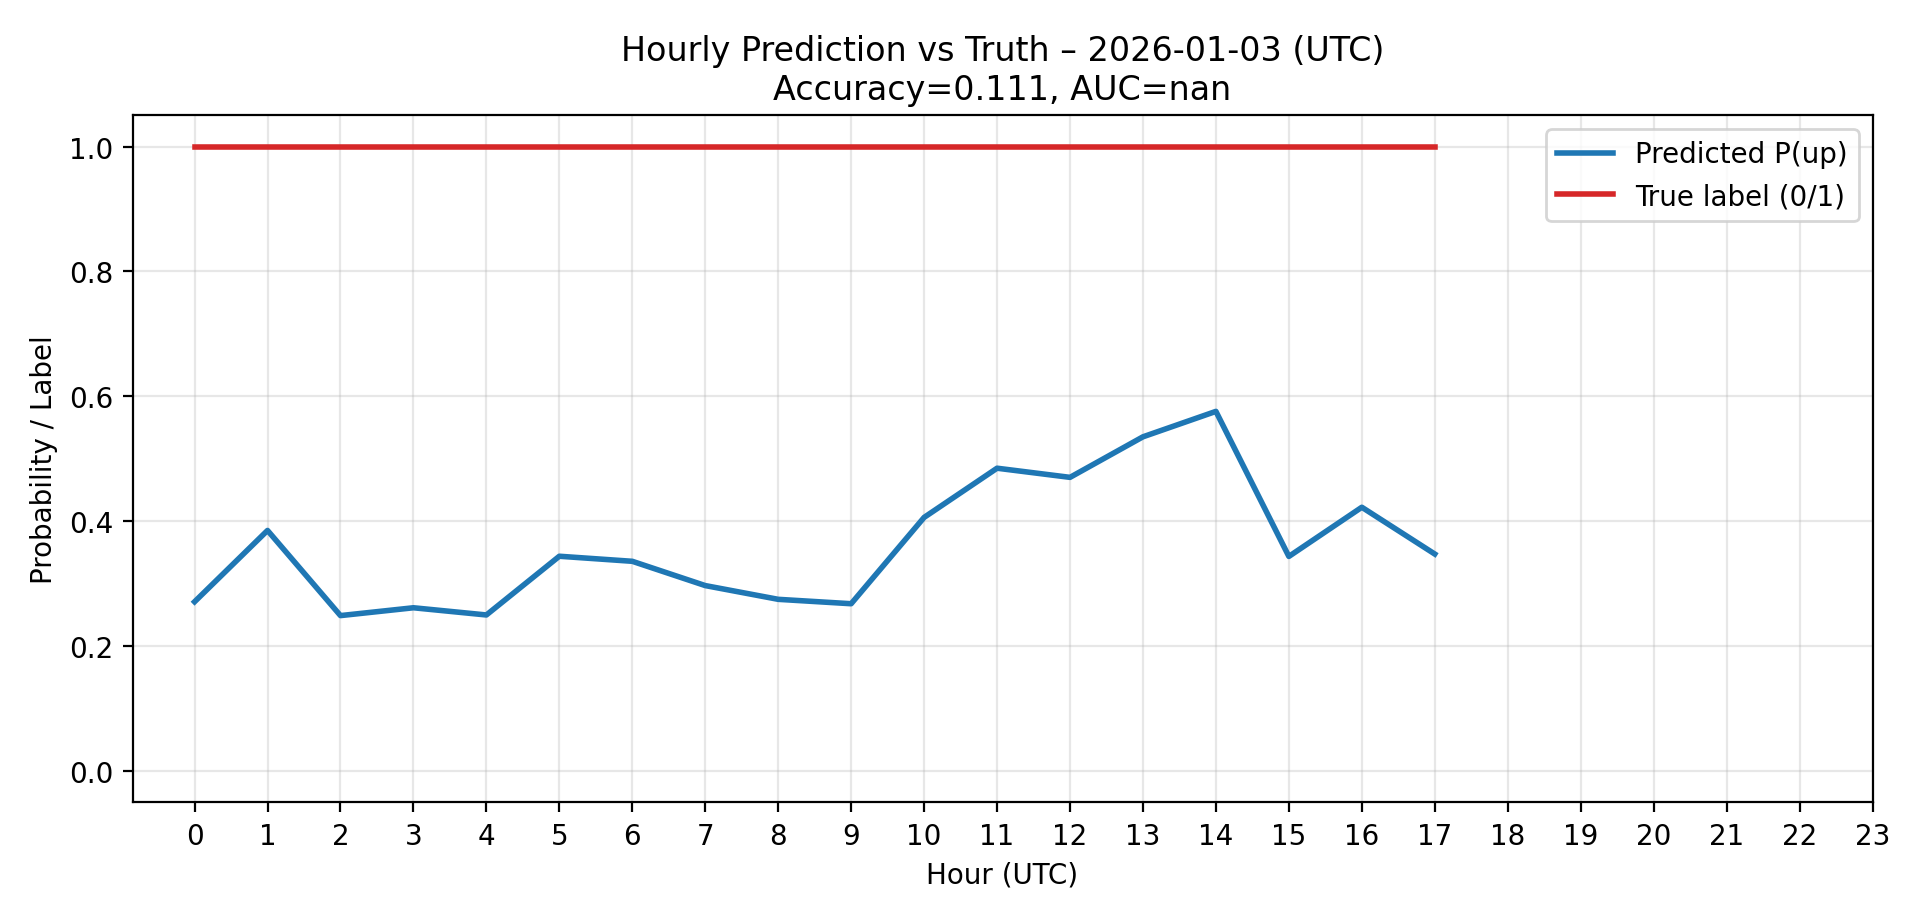
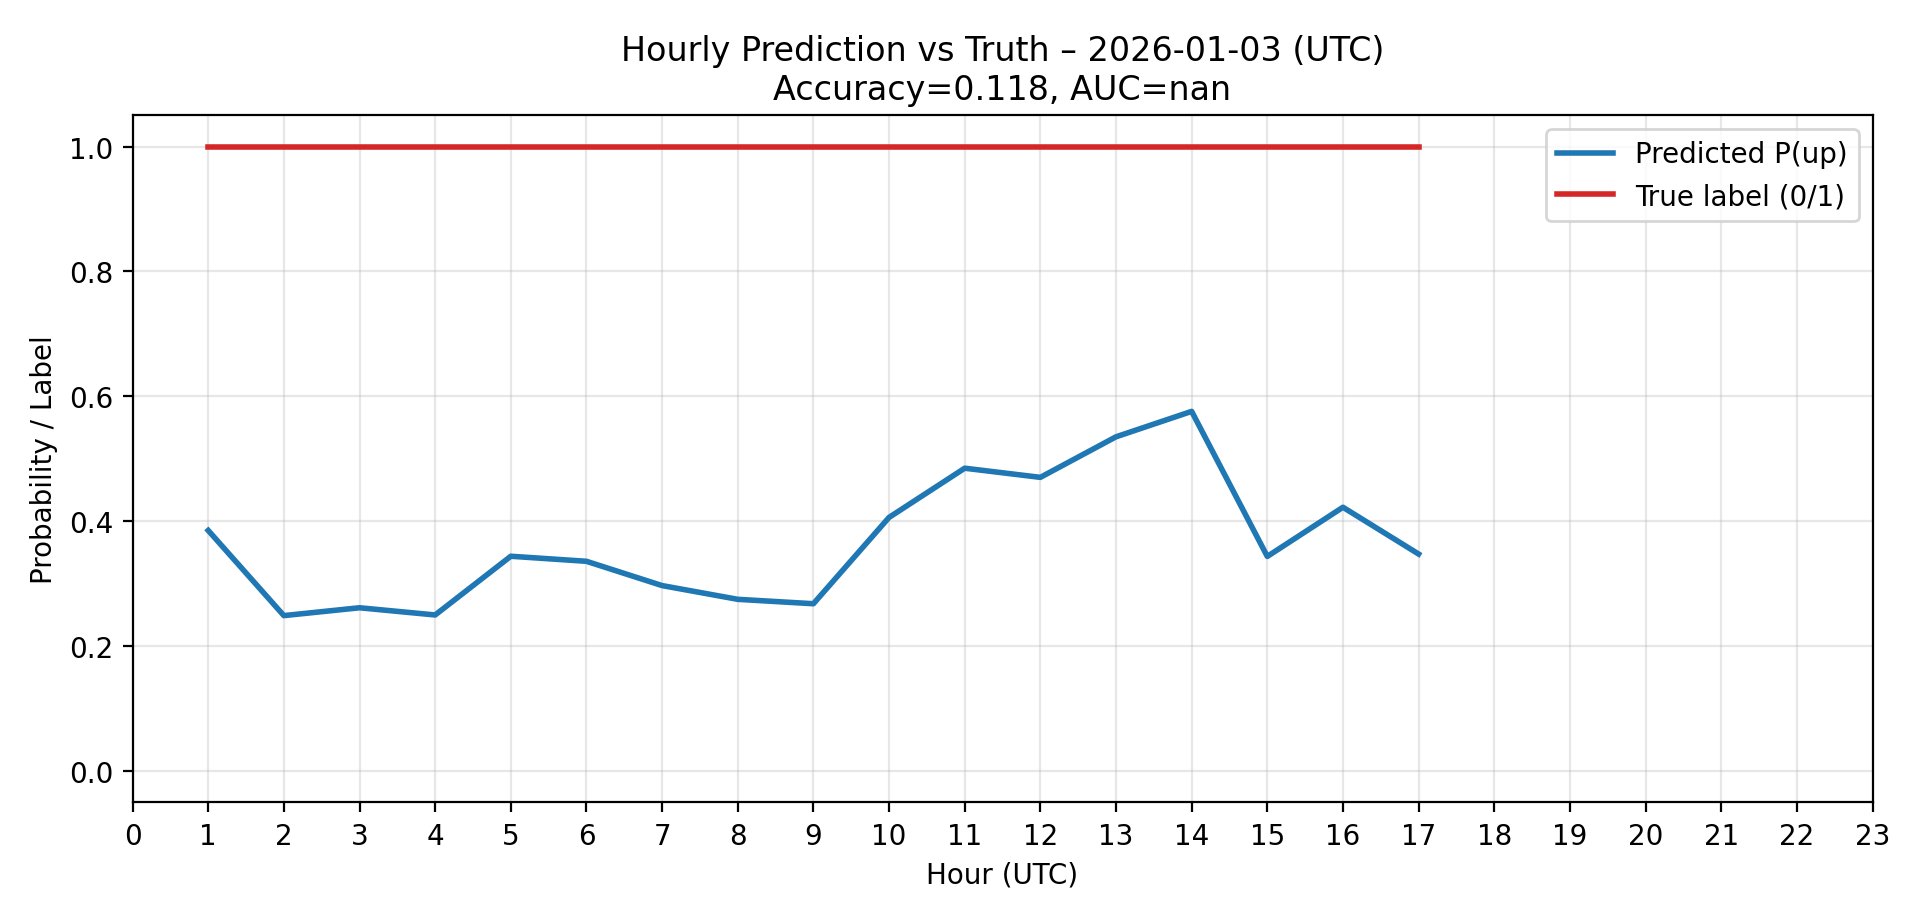
表格

diff --git a/pyfiles/crypto_inference.py b/pyfiles/crypto_inference.py
@@ -188,16 +188,10 @@ def save_inference_images(
     auc: float,
     eval_date_str: str,
 ):
-    """
-    Save inference visualization images with evaluation date annotated:
-      - confusion_matrix.png
-      - prob_vs_truth.png
-      - labels_vs_prediction.png  <-- 新增
-    """
     images_dir.mkdir(parents=True, exist_ok=True)
 
     # =========================================================
-    # 1) Confusion Matrix (unchanged)
+    # 1) Confusion Matrix
     # =========================================================
     from sklearn.metrics import confusion_matrix
 
@@ -214,17 +208,14 @@ def save_inference_images(
         linecolor="white",
         annot_kws={"size": 14, "weight": "bold"},
     )
-
     plt.xticks([0.5, 1.5], ["Down / 0", "Up / 1"])
     plt.yticks([0.5, 1.5], ["Down / 0", "Up / 1"], rotation=0)
     plt.xlabel("Predicted", fontsize=12)
     plt.ylabel("Actual", fontsize=12)
-
     plt.title(
         f"Confusion Matrix – BTC 1h Up/Down\nEvaluation date: {eval_date_str} (UTC)",
         fontsize=12
     )
-
     plt.tight_layout()
     plt.savefig(images_dir / "confusion_matrix.png", dpi=200)
     plt.close()
@@ -240,42 +231,45 @@ def save_inference_images(
     plt.figure(figsize=(9.6, 4.6))
     plt.plot(h, yp, linewidth=2, color="#1f77b4", label="Predicted P(up)")
     plt.plot(h, yt, linewidth=2, color="#d62728", label="True label (0/1)")
-
     plt.ylim(-0.05, 1.05)
     plt.xticks(range(0, 24))
     plt.xlabel("Hour (UTC)")
     plt.ylabel("Probability / Label")
-
     plt.title(
         f"Hourly Prediction vs Truth – {eval_date_str} (UTC)\n"
         f"Accuracy={acc:.3f}, AUC={auc if not np.isnan(auc) else float('nan'):.3f}",
         fontsize=12
     )
-
     plt.legend()
     plt.grid(alpha=0.3)
-
     plt.tight_layout()
     plt.savefig(images_dir / "prob_vs_truth.png", dpi=200)
     plt.close()
 
     # =========================================================
-    # 3) Labels vs Prediction (new)
+    # 3) Hourly True vs Predicted Labels as Table
     # =========================================================
-    plt.figure(figsize=(10, 4.6))
-    width = 0.35  # 柱宽
-    x = np.arange(len(h))
+    import pandas as pd
 
-    plt.bar(x - width/2, y_true[order], width, label="True label", color="#d62728", alpha=0.7)
-    plt.bar(x + width/2, y_pred[order], width, label="Predicted label", color="#1f77b4", alpha=0.7)
+    table_df = pd.DataFrame({
+        "Hour (UTC)": h,
+        "True Label": yt,
+        "Predicted Label": y_pred[order],
+    })
 
-    plt.xticks(x, h)
-    plt.xlabel("Hour (UTC)")
-    plt.ylabel("Label (0=Down,1=Up)")
-    plt.title(f"Hourly True vs Predicted Labels – {eval_date_str} (UTC)")
-    plt.legend()
-    plt.grid(alpha=0.2, axis="y")
-
+    fig, ax = plt.subplots(figsize=(6, len(table_df)*0.5 + 1))
+    ax.axis("tight")
+    ax.axis("off")
+    the_table = ax.table(
+        cellText=table_df.values,
+        colLabels=table_df.columns,
+        cellLoc="center",
+        loc="center",
+    )
+    the_table.auto_set_font_size(False)
+    the_table.set_fontsize(12)
+    the_table.scale(1, 1.2)  # 调整表格行高
+    plt.title(f"Hourly True vs Predicted Labels – {eval_date_str} (UTC)", fontsize=12)
     plt.tight_layout()
     plt.savefig(images_dir / "labels_vs_prediction.png", dpi=200)
     plt.close()
